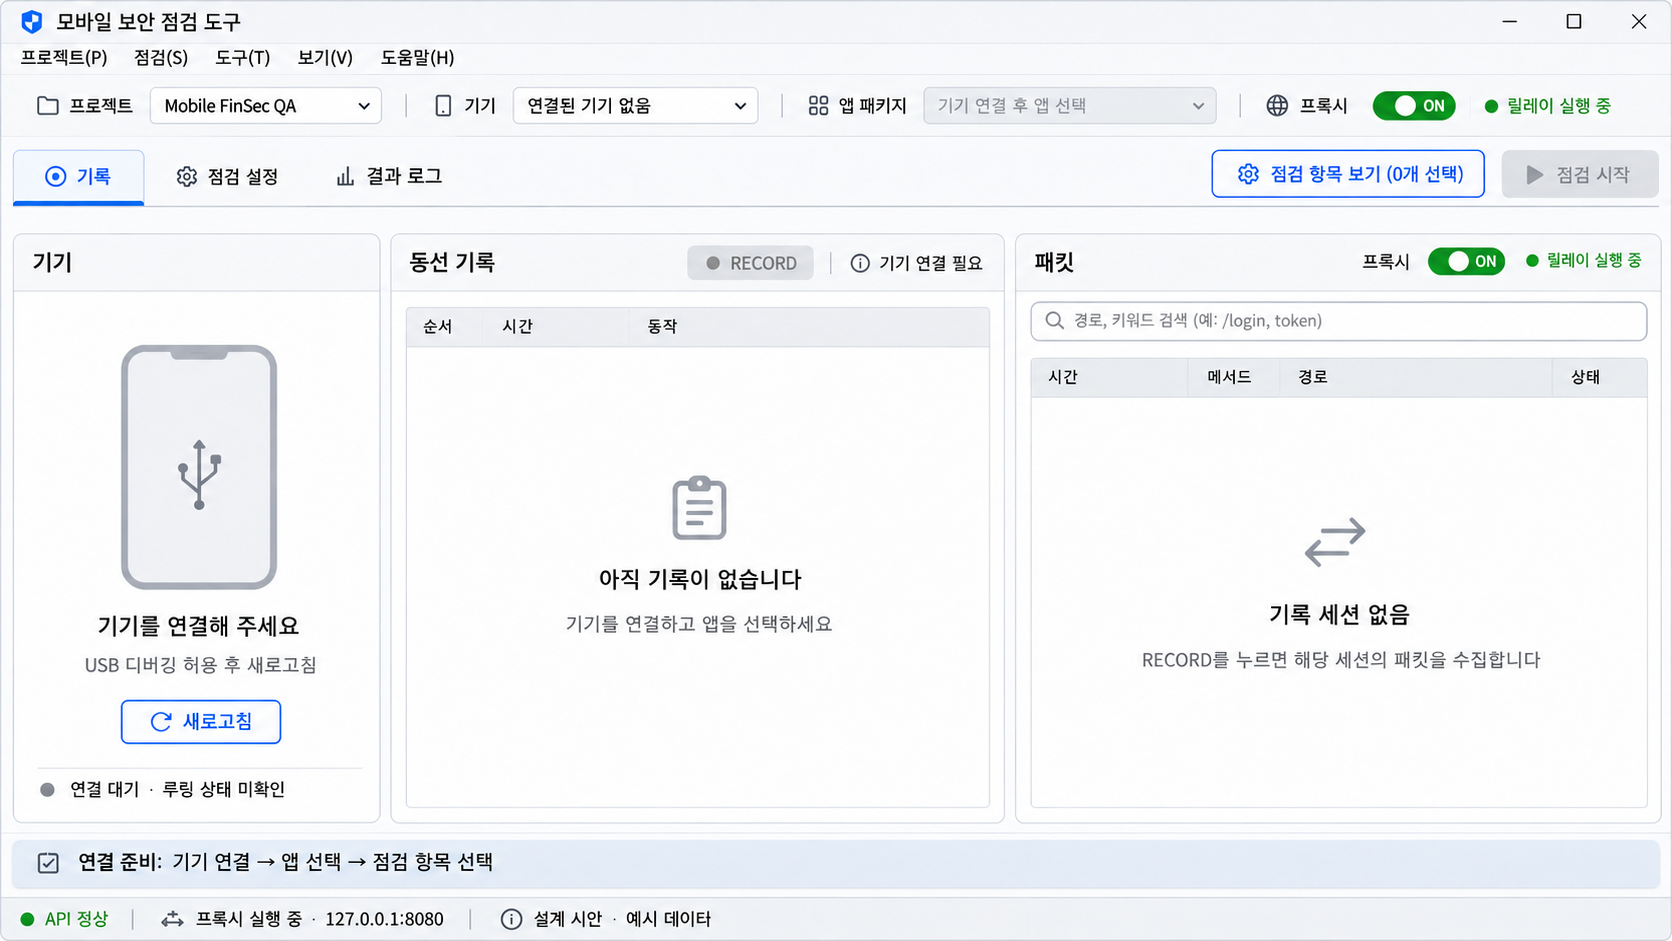
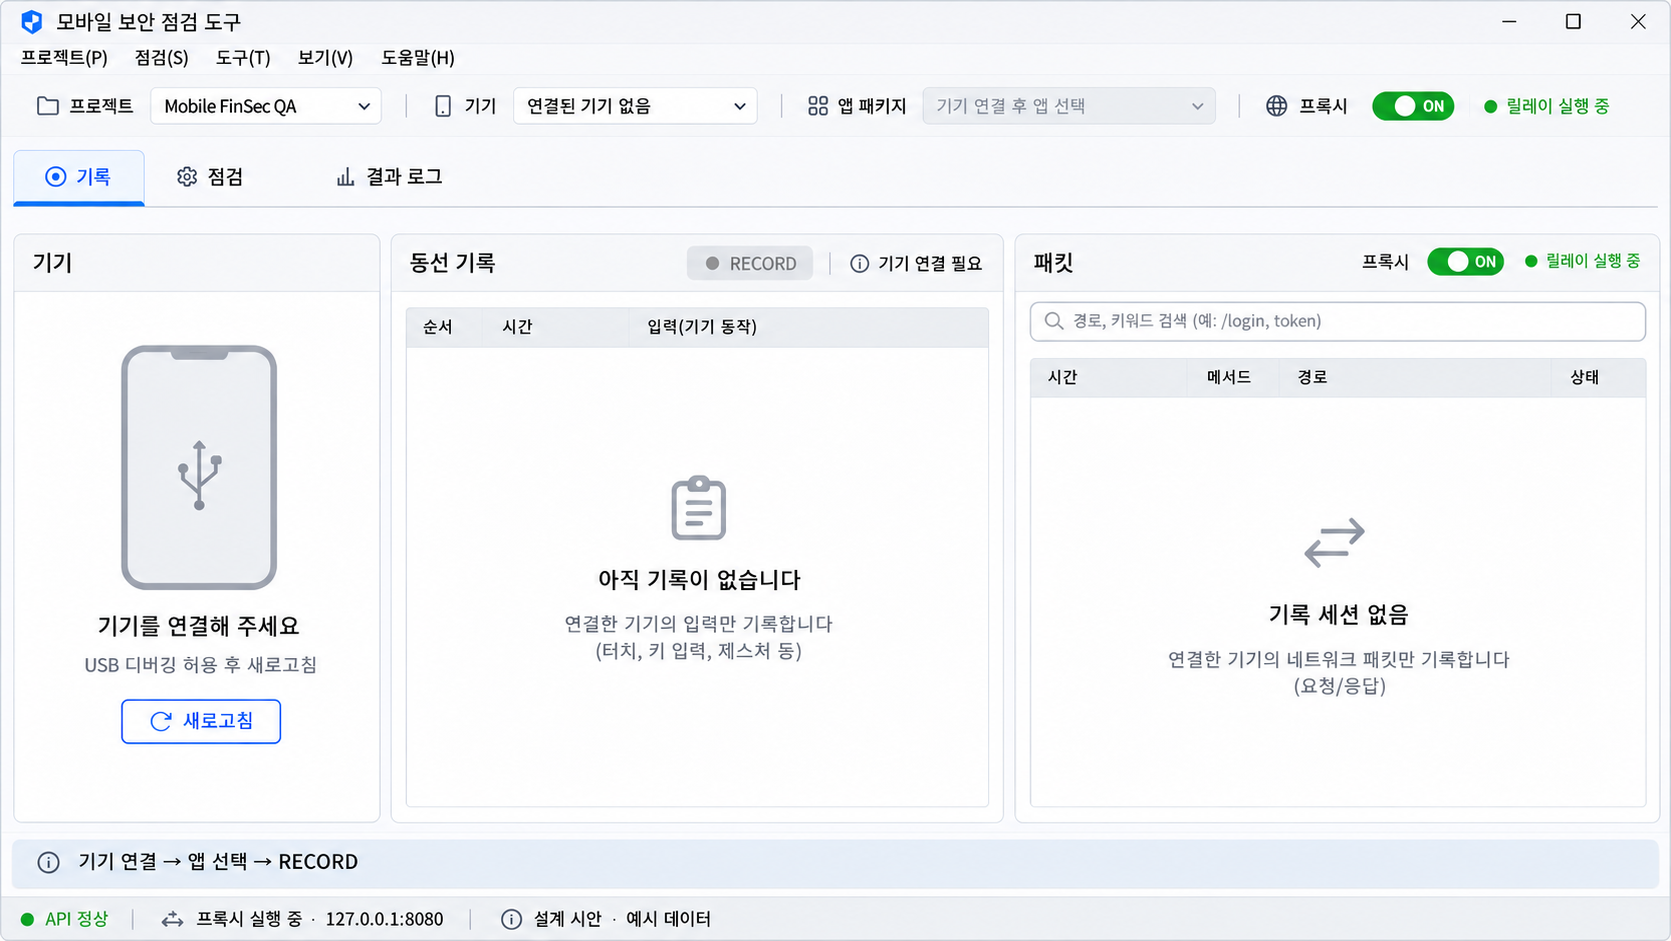
docs: adopt approved recording checks and result-history screens

diff --git a/docs/03-ui-flow.md b/docs/03-ui-flow.md
@@ -1,63 +1,75 @@
-# 03. 화면 및 사용자 흐름 초안
+# 03. 화면 및 사용자 흐름
 
-이 문서는 확정 기능을 화면으로 정리한 **와이어프레임 제안**이다. 시각 디자인과 패널 크기, 화면 수는 아직 확정하지 않았다.
+## 1. 승인된 화면 구조
 
-## 1. 작업 화면
+사용자가 승인한 기준은 **기록 / 점검 / 결과 로그**의 세 탭이다. [전체 시안 6장](mockups/README.md)은 기록·점검 화면 v4와 결과 이력 화면 v5를 결합한다. 이미지 승인은 화면 구조에 관한 것이며 실제 구현 완료를 의미하지 않는다.
 
-```text
-[프로젝트 / 대상 앱]                    [모델 백엔드 / 상태]
-[기기 선택 ▼] [새로고침] [연결·OS·루팅 상태] [Proxy ON/OFF]
+공통 상단에는 프로젝트, 기기 selectbox, 대상 앱 패키지, proxy 상태/제어를 둔다. 연결한 실제 기기를 PC 화면에서 조작할 수 있다.
 
-[패키지명 또는 APK/IPA 선택] [동선 선택 / 기본 실행]
-┌──────────────────┬──────────────────────────┐
-│ 기기 미러링 화면 │ 동선 타임라인 / 단계 상세  │
-│ 마우스 입력      │ 패킷 목록 / 요청·응답 상세 │
-└──────────────────┴──────────────────────────┘
-[RECORD] [STOP RECORD] [기록 상태 / 수집 건수]
+## 2. 기록 탭
 
-[검사 항목 체크리스트 / 비활성 사유]
-[START] [CANCEL] [현재 항목 / 대기 항목 / 실행 상태]
+기록만 담당한다. 점검 항목 checkbox, 선택 항목 요약, 점검 시작 버튼을 넣지 않는다.
 
-[판정 요약] [항목별 결과 / 증적 / AI 도구 실행 로그]
-```
+- 왼쪽: 연결 기기와 미러링 화면. 미연결이면 연결 안내와 새로고침.
+- 가운데: RECORD/STOP, 기록 시간, 동선 목록.
+- 오른쪽: 해당 기록 세션의 packet 목록과 요청/응답 상세.
+- RECORD는 연결 기기의 입력(터치·키·제스처 등)과 네트워크 packet을 함께 기록한다.
+- 미연결이면 RECORD를 비활성화한다. 기록 전에 기기와 대상 앱을 확인한다.
+- 화면의 자물쇠/수동 조작 잠금 overlay 및 마스킹 버튼은 제거한다.
+- 기록을 끝낸 뒤 점검 탭으로 이동한다.
 
-## 2. 기기 선택과 항목 활성화
+Proxy ON은 relay 실행 상태이며 기록 세션 생성과 다르다. Proxy OFF 상태에서는 네트워크 수집이 없음을 명시한다. 기록 중 OFF 전환과 진행 중 요청 처리 정책은 상세 명세에서 확정한다.
 
-- selectbox에 device ID, 모델, OS, 연결 상태를 구분하여 표시한다.
-- 기기 변경 시 가능한 항목을 다시 계산한다.
-- 루팅/순정 조건을 충족하지 못한 항목은 비활성화하고 원인을 표시한다.
-- APK 필요, 기록 필요, 패킷 필요, 도구 부족 등의 선행조건도 함께 표시하는 방향을 제안한다.
-- 실행 중 기기 변경은 다른 작업에 영향을 주므로 중단·정리 후 변경하는 흐름을 제안한다.
+## 3. 점검 탭: 선택과 실시간 진행
 
-## 3. RECORD
+점검 전 선택과 점검 중 진행을 **같은 점검 탭**에서 보여준다. 모호한 '점검 항목 보기' 버튼은 사용하지 않는다.
 
-기록 시작 전에 기기 연결과 조작 경로를 확인한다. 시작 후 입력 이벤트와 proxy 이벤트가 동일 recording ID를 사용하도록 한다.
+### 점검 전
 
-동선은 목록과 흐름 차트로 확인한다. 각 단계의 동작, 대상, 대기 조건, 시각을 표시한다. 패킷은 방향, 대상, 시각, 크기, 분석 가능 protocol 등을 표시하고 상세를 조회한다.
+- 왼쪽: 기기 화면/정보.
+- 가운데: 동선 선택, E/S/U/N 등 분류별 평가항목 checkbox, 선택 개수, 점검 시작.
+- 오른쪽: 선택 항목 상세/실행 조건, 시작 전 비어 있는 실행 로그.
+- 기기와 선행조건에 맞지 않는 항목은 비활성화하고 이유를 표시한다.
+- 기록이 없으면 '기본 앱 실행' 동선을 선택할 수 있다. 거래 동선이 필요한 검사를 충족한 것으로 간주하지 않는다.
+- 실행 직전에 선택 기기/앱/항목/동선/packet 조건을 다시 검증한다.
 
-PC 화면에서 입력했을 때 재현 가능한 동작으로 기록되는지를 먼저 PoC로 검증한다. Appium을 사용한다는 사실만으로 임의 미러링 화면의 모든 조작이 자동 기록되는 것으로 간주하지 않는다.
+### 점검 중
 
-Proxy OFF 상태의 RECORD는 네트워크 수집 없음으로 명시한다. OFF 전환 중의 연결 처리와 기록 중 전환 허용 여부는 미확정이다.
+- 왼쪽: 실제 기기 화면.
+- 가운데: 선택한 항목별 대기/실행 중/완료 상태와 나온 판정, 현재 agent, 대기열.
+- 오른쪽: main AI와 항목 agent의 실시간 실행 로그, 마지막 heartbeat, 응답/오류 상태.
+- 점검 시작 대신 점검 중지와 경과 시간을 보여준다.
+- 점검 실행 때문에 결과 로그 탭으로 자동 전환하지 않는다.
+- UI의 잠금 표시를 제거해도 **단일 기기 순차 스케줄링은 유지**한다. 동일 기기에 두 검사가 겹치면 안 된다.
+- 중지 요청과 실제 도구 종료/정리 완료는 구분한다. 중복 START나 대상 변경이 실행 중 작업의 snapshot을 덮어쓰지 않도록 한다. 세부 입력 처리 방식은 후속 명세로 확정한다.
 
-## 4. START와 결과
+## 4. 결과 로그 탭: 최종 결과와 이력
 
-START 전에는 선택 기기, 대상 앱, 선택 항목, 동선 유무, packet 범위와 실행 백엔드를 보여준다.
+실시간 진행 화면이 아니라 **실행이 끝난 점검의 최종 결과**를 조회한다.
 
-기록이 없으면 '기본 동선: 패키지 실행'을 표시한다. 거래가 필요한 항목에 거래 동선이 없을 때 이유를 노출한다.
+- 왼쪽 점검 이력: 날짜·시각으로 실행을 구분하고 검색/선택한다. 패키지와 항목 수를 보조 표시한다.
+- 상단 요약: 선택한 실행의 날짜·시각, 기기, 앱, 판정별 건수.
+- 가운데: 해당 실행의 평가항목, 양호/취약/판단 불가능, 소요 시간. 항목 검색과 판정 필터.
+- 오른쪽: 선택 항목의 판정 사유, 판단 근거, 증적, 후속 조치.
+- 이력을 선택하면 요약·항목·증적 모두 동일 run_id의 데이터로 바뀐다. 다른 실행의 증적을 섞지 않는다.
+- 현재 연결 기기가 바뀌거나 분리되어도 저장된 과거 실행 결과를 조회할 수 있어야 한다.
+- 실행 중 main AI 로그와 대기열은 점검 탭에 남긴다. 결과 탭은 최종 판정 근거와 증적에 집중한다.
+- 판단 불가능은 이유가 필수다. 취소·오류·미수행 항목을 양호로 계산하지 않는다.
 
-진행 화면은 현재 평가항목, 실행 상태, 마지막 진행 이벤트, 현재 도구, 경과 시간과 중단 상태를 구분한다. AI의 숨겨진 사고과정 대신 확인한 사실·도구·증적·판단 근거를 보여준다.
+## 5. 구현 시 주의점
 
-결과에서:
-- 양호/취약/판단 불가능을 필터링한다.
-- 판단 불가능 사유를 바로 볼 수 있다.
-- 판정 근거에서 action/packet/screenshot/tool call로 이동한다.
-- 미선택·비활성·취소된 항목을 양호 통계에 포함하지 않는다.
+- 시안의 앱/계정/암호/token/금액/주소/증적은 합성 예시다. 마스킹 UI 제거는 실제 비밀값의 Git 업로드나 외부 모델 전송을 승인하는 것이 아니다. 보관·전송 정책은 데이터 계약에서 별도로 정한다.
+- Appium이 임의 미러링 입력을 자동 기록한다고 가정하지 않는다. 입력 수집과 재생은 독립 PoC에서 검증한다.
+- 그림의 오탈자, 중복 proxy 표시, 증적 날짜 불일치는 구현 명세가 아니다.
+- 최종 폰트·색상·간격, 기록 중 proxy 전환, 실행 중 대상 변경 처리, 이력 보존 기간은 아직 상세 확정 대상이다.
 
-## 5. 화면 인수 기준 제안
+## 6. 화면 인수 기준
 
-- 선택 기기와 맞지 않는 항목을 체크할 수 없다.
-- 비활성 사유가 명확하다.
-- RECORD와 SCAN 상태를 혼동하지 않는다.
-- 기기 단절 시 실제 상태와 UI가 일치한다.
-- 취소 요청과 실제 종료 완료를 구분한다.
-- 재시도나 반복 클릭으로 동일 기기 검사가 중복 시작되지 않는다.
+1. 기록 탭에는 점검 선택/시작 UI가 없다.
+2. 점검 전 항목 선택과 실행 중 진행이 점검 탭 안에서 전환된다.
+3. 연결/기기/동선/packet 조건을 충족하지 못한 항목의 비활성 사유가 보인다.
+4. 실행 상태와 보안 판정을 혼동하지 않는다.
+5. 날짜·시각별 이력 선택 시 결과/증적이 해당 실행으로 함께 바뀐다.
+6. 최종 결과 탭에서 실시간 실행 중 화면을 표시하지 않는다.
+7. 잠금/마스킹 UI를 제거해도 중복 기기 작업 방지와 결과 무결성은 유지한다.
+8. 반복 클릭·중단·기기 연결 해제 후 UI와 실제 상태가 일치한다.

diff --git a/docs/mockups/README.md b/docs/mockups/README.md
@@ -1,43 +1,44 @@
-# UI 검토용 시안 v2
+# 승인된 UI 시안
 
-AI로 생성한 **개념 목업**이며 실제 GPUI 구현 화면이나 점검 결과가 아닙니다. 앱·계정·금액·패킷·증적·시간은 예시입니다. 화면 구성과 상태 전이를 검토하기 위한 자료이며, 최종 승인된 픽셀 명세를 뜻하지 않습니다.
+사용자가 승인한 기록·점검 화면 **v4 5장**과 최종 결과 이력 화면 **v5 1장**이다. 기존 v2 시안은 현재 폴더에서 대체했으며 Git 이력에서 확인할 수 있다.
 
-각 이미지는 독립된 전체 화면입니다. 클릭하면 원본 크기로 볼 수 있습니다.
+AI 생성 개념 이미지이며 실제 실행 화면/검사 결과가 아니다. 이미지의 승인된 구조는 [화면 명세](../03-ui-flow.md)에 반영했다.
 
-|상태|이미지|핵심 검토 내용|
+|번호|화면|파일|
 |---|---|---|
-|기기 미연결|[01-device-disconnected.png](01-device-disconnected.png)|연결 안내, 비활성 RECORD/점검 시작, relay 상태와 기록 세션 구분|
-|기록 전 준비|[02-ready-before-record.png](02-ready-before-record.png)|기기·앱·항목 선택, 기록 없는 기본 앱 실행 동선|
-|기록 중|[03-recording.png](03-recording.png)|기기/앱 잠금, STOP, UI 입력과 packet 동시 기록|
-|점검 실행 중|[04-scan-running.png](04-scan-running.png)|기기 한 대 순차 실행, main AI 감시, 활성 agent, 실행 로그|
-|결과 로그|[05-result-log.png](05-result-log.png)|양호/취약/판단 불가능, 이유·증적·오류 및 후속 조치|
+|01|기기 미연결, 기록 탭|[원본](01-device-disconnected.png)|
+|02|기록 준비|[원본](02-record-ready.png)|
+|03|기록 중|[원본](03-recording.png)|
+|04|점검 항목 선택|[원본](04-check-selection.png)|
+|05|점검 실행 중|[원본](05-check-running.png)|
+|06|날짜·시각별 최종 결과 이력|[원본](06-final-results-history.png)|
 
-## 구현 시 우선하는 명세와 시안 차이
+## 승인된 역할 분리
 
-- 점검 실행 중에는 기기·앱 선택을 잠근다. 04번의 기기 selectbox가 활성처럼 보이는 것은 그림의 미반영 사항이며 실제로 변경을 허용한다는 의미가 아니다. 수동 기기 조작도 실행 소유권과 충돌하지 않게 제어한다.
-- 기록 중에는 점검 시작을 비활성화한다. 점검 중 STOP/취소는 즉시 잠금 해제가 아니라 진행 도구 종료와 정리 완료를 기다리는 흐름이다.
-- 일부 그림의 'OS 변전 탐지' 문구는 'OS 변조 탐지'로 수정해야 한다. 생성 이미지의 오탈자는 평가항목 명칭 변경이 아니다.
-- 01번의 proxy 토글 중복 배치, 화면별 아이콘·용어·버튼 스타일 차이는 디자인 정리 대상이다. 두 개의 독립 proxy를 뜻하지 않는다.
-- 05번 증적의 날짜 등은 예시이며 실제 실행 시각을 뜻하지 않는다. '점검 완료'와 개별 도구 오류/판단 불가능을 함께 보여주는 시안이다.
-- 04번에서 루팅 기기의 앱 화면과 양호 예시가 함께 보인다고 해당 상태만으로 양호를 판정하지 않는다. 실제 판정은 항목별 절차와 증적에 따른다.
-- proxy ON은 relay 실행 상태이다. RECORD의 packet 수집 범위와는 구분한다. STOP/OFF 시 진행 중 요청 처리 정책은 구현 전 확정한다.
-- 예시의 포트 8080, 모델명, 항목 개수, 경과 시간 및 보고서 내보내기 UI는 확정된 구현 수치나 완료 기능이 아니다.
+- 기록: 동선과 packet 기록만. 점검 checkbox/선택 요약/시작 버튼 없음.
+- 점검: 선택과 실시간 진행을 같은 탭에서 제공. 기기 왼쪽, 항목/agent/대기열 가운데, 실시간 로그 오른쪽.
+- 결과 로그: 완료된 실행의 최종 결과. 왼쪽에서 날짜·시각별 실행을 선택.
+- 자물쇠/수동 조작 잠금 overlay와 마스킹 UI, 모호한 '점검 항목 보기' 버튼 제거.
+- 내부의 단일 기기 순차 실행 원칙은 그대로 유지.
 
-상태·기능 요구사항은 [화면 흐름](../03-ui-flow.md), [구조](../02-architecture.md), [PoC 계획](../07-poc-plan.md)을 우선한다. 이미지의 작은 오류를 기능 결정으로 해석하지 않는다.
+## 예시와 남은 정리
 
-## 전체 화면
+앱 이름, 계정·암호·token·금액·packet·주소·증적·시간은 모두 합성 예시다. 실제 비밀값 공개/외부 전송의 승인이 아니다. 'OS 변조 탐지' 등 공식 항목명은 텍스트 명세를 따른다. 중복 proxy 표시, 일부 폰트/문구 차이 및 06번 증적 날짜와 실행 날짜의 불일치는 구현 시 정리한다. 8080 포트나 예시 항목 개수는 고정 요구사항이 아니다.
 
-### 1. 기기 미연결
-![기기 미연결 전체 화면](01-device-disconnected.png)
+### 01 · 기기 미연결
+![기기 미연결](01-device-disconnected.png)
 
-### 2. 기록 전 준비
-![기록 전 준비 전체 화면](02-ready-before-record.png)
+### 02 · 기록 준비
+![기록 준비](02-record-ready.png)
 
-### 3. 기록 중
-![기록 중 전체 화면](03-recording.png)
+### 03 · 기록 중
+![기록 중](03-recording.png)
 
-### 4. 점검 실행 중
-![점검 실행 중 전체 화면](04-scan-running.png)
+### 04 · 점검 항목 선택
+![점검 항목 선택](04-check-selection.png)
 
-### 5. 결과 로그
-![결과 로그 전체 화면](05-result-log.png)
+### 05 · 점검 실행 중
+![점검 실행 중](05-check-running.png)
+
+### 06 · 최종 결과 이력
+![최종 결과 이력](06-final-results-history.png)

diff --git a/docs/06-decisions.md b/docs/06-decisions.md
@@ -23,6 +23,13 @@
 
 상세 단계와 잠정 통과 기준은 [분리형 PoC 계획](07-poc-plan.md)을 참조한다.
 
+## 승인된 UI 갱신
+
+- D-017: 기록 / 점검 / 결과 로그 3탭. 기록 탭은 동선·packet 기록만 담당한다.
+- D-018: 점검 선택과 실시간 진행은 점검 탭에서 제공한다. 결과 로그는 날짜·시각별 완료 실행의 최종 결과를 조회한다.
+- D-019: 잠금·마스킹 UI 및 모호한 점검 항목 보기 버튼을 제거한다. 내부 단일 기기 순차 실행은 유지한다.
+- 승인 시안: 기록·점검 v4 01–05, 최종 결과 이력 v5 06.
+
 ## 설계 제안, 상세 확정 필요
 
 - Python 실행 관리자가 device lock, 큐, 취소, watchdog을 소유한다.
@@ -30,7 +37,7 @@
 - 이벤트·route·packet·result·evidence의 versioned schema를 정의한다.
 - root 자동 감지와 수동 보정 이력.
 - APK/IPA와 설치 앱 일치 확인 및 교체 정책.
-- 화면 패널 배치, 오류·취소 UI.
+- 승인된 탭/패널 구조 아래의 세부 오류·취소 상호작용.
 - proxy toggle의 활성 연결 처리.
 - 외부 모델 전송 데이터 최소화와 로컬 비밀 저장 방식.
 

diff --git a/docs/04-contracts.md b/docs/04-contracts.md
@@ -72,3 +72,6 @@ QA 테스트 사용자 A/B, 각 사용자의 소유 resource reference, 대상 e
 - Skill/version snapshot을 통해 결과 재검토 가능.
 - 백엔드 변경 후에도 route/packet/result 계약 유지.
 - 실패한 검사를 양호로 계산하지 않음.
+## 7. 최종 결과 이력 조회
+
+승인된 UI는 완료된 실행을 날짜·시각별로 선택한다. 표시 시각과 별도로 run_id를 고유키로 사용한다. 각 실행은 시작/종료 시각과 timezone, 대상 앱·기기 snapshot, 최종 항목 결과와 증적 참조를 보존한다. 같은 시각의 실행도 구분할 수 있어야 한다. 이력 선택 시 모든 상세를 같은 run_id로 조회하며, 현재 연결 기기가 바뀌어도 과거 snapshot을 유지한다. 저장소/schema 구현 방식과 보존 기간은 미확정이다.

diff --git a/README.md b/README.md
@@ -12,12 +12,12 @@
 
 1. [제품 요구사항](docs/01-requirements.md)
 2. [구조와 오케스트레이션](docs/02-architecture.md)
-3. [화면 및 사용자 흐름 초안](docs/03-ui-flow.md)
+3. [화면 및 사용자 흐름](docs/03-ui-flow.md)
 4. [데이터와 Skill 계약 초안](docs/04-contracts.md)
 5. [Hawkeye 재사용 검토](docs/05-hawkeye-review.md)
 6. [결정 및 미확정 사항](docs/06-decisions.md)
 7. [분리형 PoC 계획](docs/07-poc-plan.md)
-8. [UI 검토용 시안 v2: 전체 화면 5장](docs/mockups/README.md)
+8. [승인된 UI 시안: 전체 화면 6장](docs/mockups/README.md)
 9. [변경 이력](CHANGELOG.md)
 
 **확정 요구사항**과 **설계 제안/미확정 상세**를 구분합니다. 사용자의 승인이 없는 세부 제안은 구현 확정 사항으로 취급하지 않습니다.

diff --git a/CHANGELOG.md b/CHANGELOG.md
@@ -1,5 +1,11 @@
 # 변경 이력
 
+## 0.1.3 · 2026-11-16
+
+- 사용자 승인 v4 기록·점검 5장과 v5 결과 이력 1장으로 시안 교체.
+- 기록 전용 탭, 점검 선택/실시간 진행 탭, 날짜·시각별 최종 결과 탭 역할 명세.
+- 잠금·마스킹 UI 제거와 내부 순차 실행 유지 구분. 결과 이력 데이터 계약 보완.
+
 ## 0.1.2 · 2026-11-16
 
 - 검토용 AI 생성 UI 시안 v2 전체 화면 5장 추가: 미연결, 기록 전, 기록 중, 점검 중, 결과 로그.
